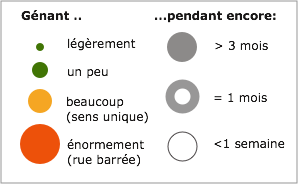
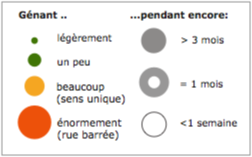
Ajout de la légende fixe

diff --git a/map.js b/map.js
@@ -28,6 +28,29 @@ L.tileLayer(
 				'<a href="http://perceptible.fr">perceptible.fr</a>',
 	id: 'examples.map-i86knfo3'
 }).addTo(map);
+
+//LAYER CONTROL 
+
+
+L.control.layers(null, null, {collapsed: false}).addTo(map);
+
+// LEGEND
+var legend = L.control({position: 'bottomright'});
+
+legend.onAdd = function (map) {
+var div = L.DomUtil.create('div', 'info legend');
+
+    div.innerHTML +=
+    '<img src="images/legend.png" alt="legend" width="251" height="156">';
+
+return div;
+};
+
+legend.addTo(map);
+
+
+
+
 map._layersMaxZoom=21;
 map._layersMinZoom=12;
 map.scrollWheelZoom.disable();
